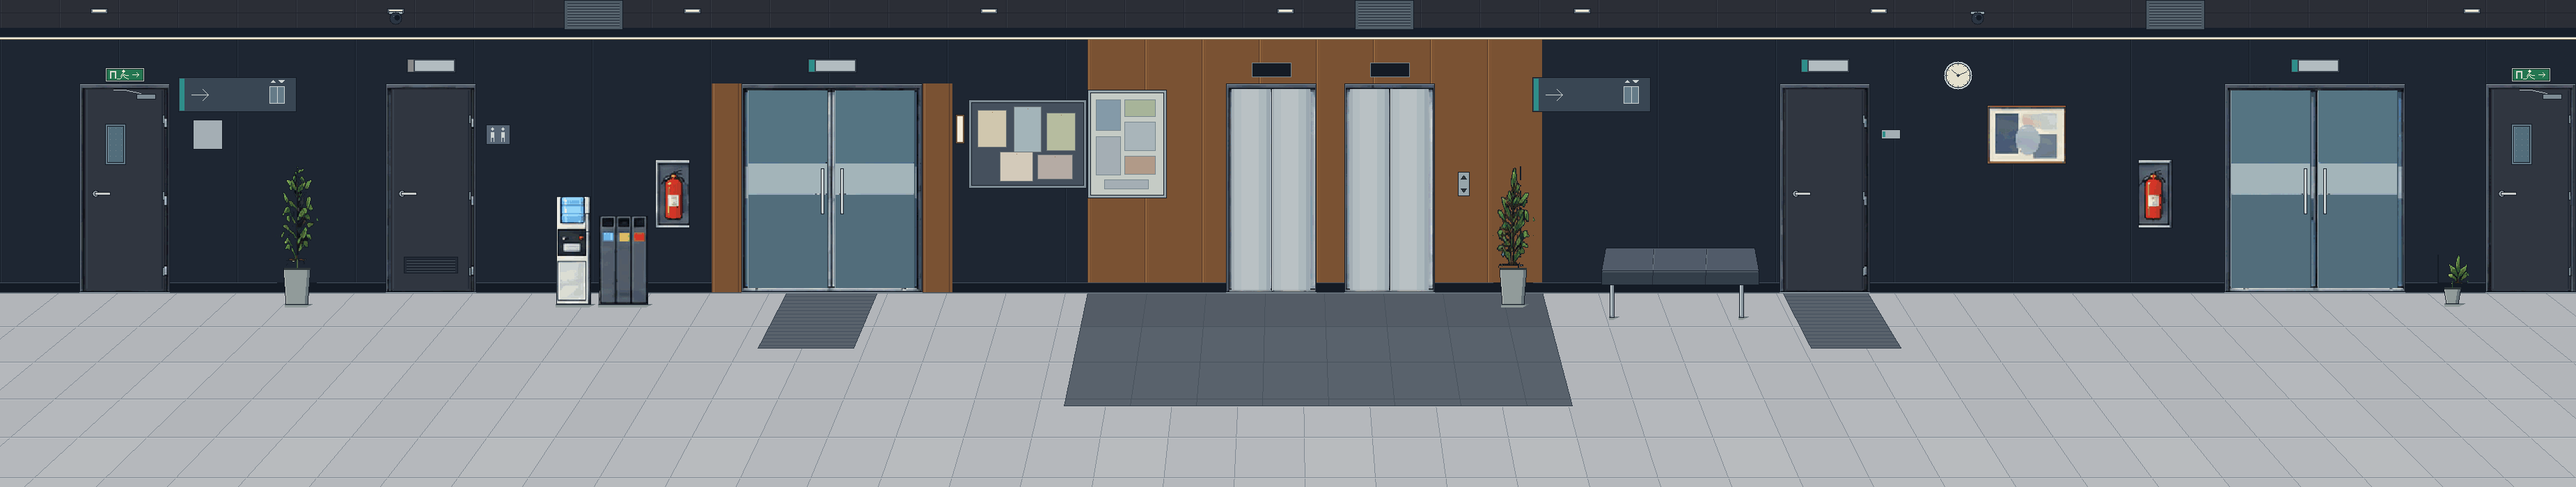
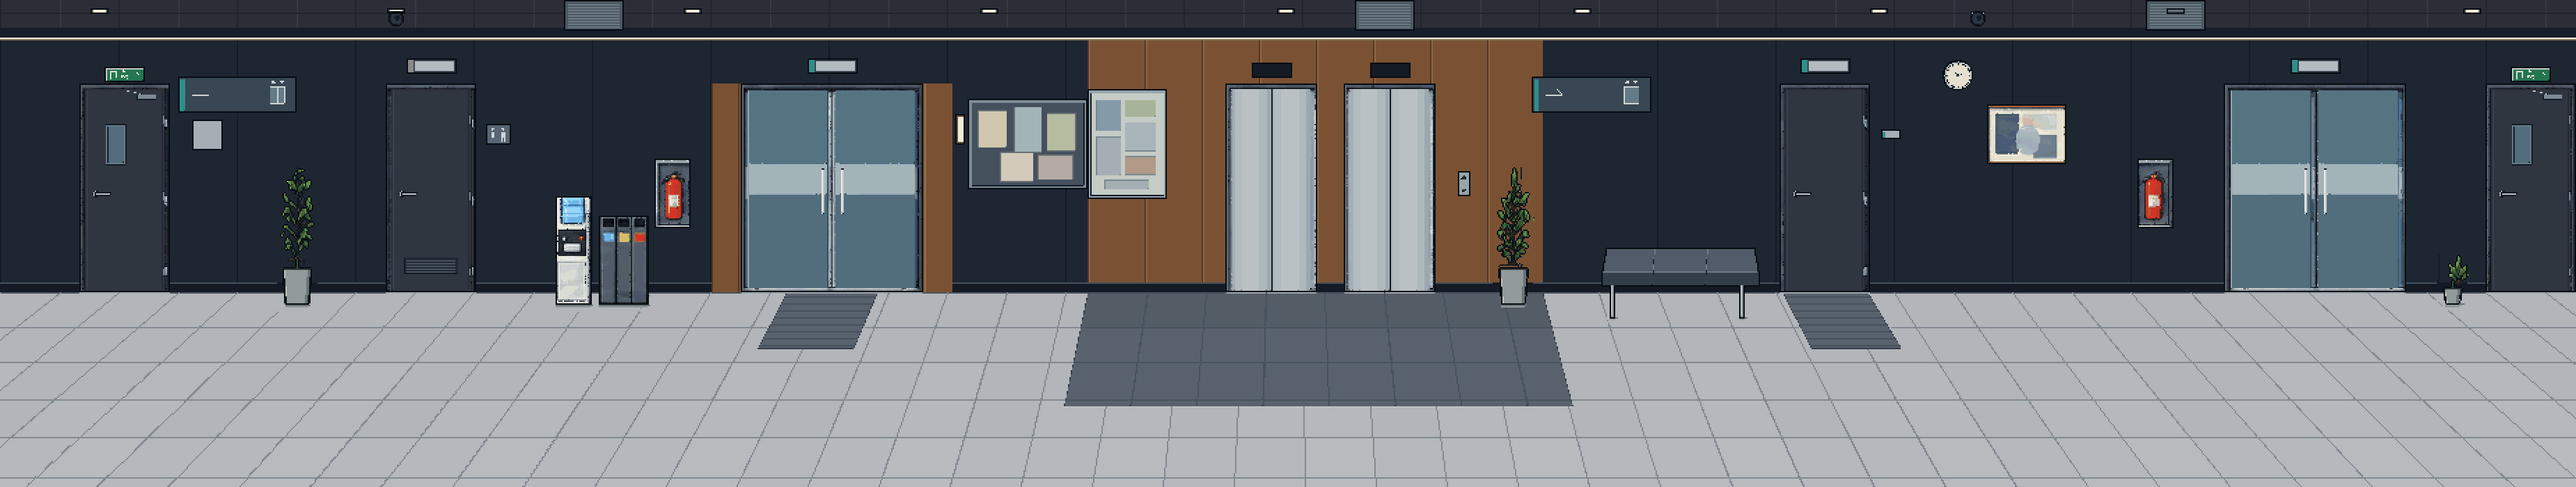
Convert f2 with modal downsampling and exact pixel doubling

diff --git a/docs/CLAUDE_HANDOFF_2026-10-22.md b/docs/CLAUDE_HANDOFF_2026-10-22.md
@@ -6,6 +6,7 @@
 - `필드_그림_통합_지침.md` 4절과 `필드_거점_설계안.md` 1-2·검수 기준에서 세로줄 수직 고정·소실점 일괄 금지를 폐기했다. 화면 밖 먼 소실점을 향한 완만한 바닥 원근을 허용하고 실제 화면에서의 깊이 검수를 필수로 했다.
 - 제작 파일: `game-src/art/field/raw/f2.png`(3700×700, 128색), 생성 원본: `game-src/art/field/source/f2-generated.png`, 치수·원근·검사 기록: `game-src/art/field/raw/f2.production.json`. 소품 개별 생성물을 사용하지 않고 통그림 생성 후 규격을 보정했다.
 - 확인 범위: 이미지 치수·색 수·문 외곽·바닥 타일 폭 검사 및 전체/원본 배율 시각 확인. 사용자 시각 승인으로 기록하지 않는다. 이번 요청은 정지 배경 제작이며 게임 런타임·기존 HTML 시연판에는 아직 통합하지 않았다.
+- 후속 사용자 지시로 같은 그림을 2×2 최빈색 축소 → 128색 이하 → 축소본 1px 어두운 외곽선 → 최근접 2배 확대 순서로 변환했다. 현재 `f2.png`는 **3700×700, 127색, 동일 색의 2×2 블록**이며 외곽선은 축소본 1px/최종본 2px다. 축소로 끊긴 바닥 줄눈은 축소본에서 같은 팔레트의 1px 선으로 연결했다. 평균·보간색을 추가하지 않았고 PNG 저장 후에도 모든 2×2 블록과 팔레트를 검사했다. 변환 전 입력은 `source/f2-before-mode.png`에 보존했다. 이전 1px 검사 기록은 메타데이터의 `previousGeometryValidation`이며 현행 검사와 구분한다.
 
 작성: 2026-10-22 · Codex → Claude. 사용자가 지금까지 논의한 내용을 GitHub에 정리해 인계하라고 지시했다. 사용자 보고와 제품 문구는 한국어로 작성한다.
 
